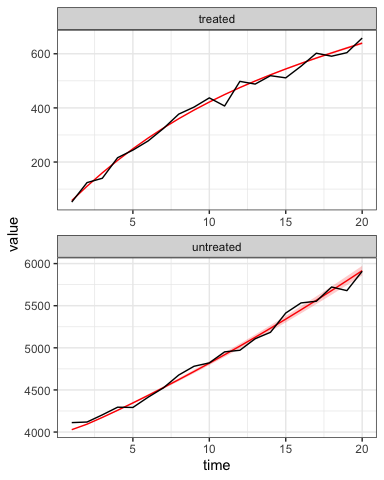
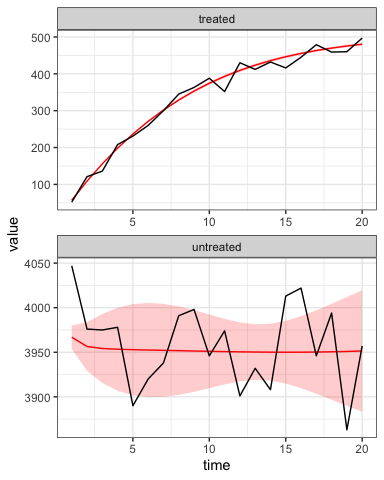
maybe address #351

diff --git a/inst/starter_models/hiv/README.md b/inst/starter_models/hiv/README.md
@@ -112,8 +112,8 @@ solver](https://canmod.github.io/macpan2/reference/state_updates).
 
 ``` r
 outputs = c(sprintf("I%s", 1:4), sprintf("A%s", 1:4))
+spec = mp_tmb_update(spec, default = list(lambda0 = 0.36, alpha = 0.2, n = 0.5))
 sim = (spec
-  |> mp_tmb_update(default = list(lambda0 = 0.36, n = 0.2))
   |> mp_rk4()
   |> mp_simulator(time_steps = 50L, outputs)
 )
@@ -143,8 +143,7 @@ and zero untreated individuals. We add Poisson noise to these variables.
 set.seed(1L)
 spec_for_cal = (spec
   |> mp_tmb_update(
-      default = list(lambda0 = 0.38, n = 0.2)
-    , inits = list(
+      inits = list(
           S = 1e7 - 4000
         , I1 = 1000, I2 = 1000, I3 = 1000, I4 = 1000
         , A1 = 0   , A2 = 0   , A3 = 0   , A4 = 0
@@ -157,6 +156,7 @@ spec_for_cal = (spec
   ))
 )
 simulated_data = (spec_for_cal
+  |> mp_rk4()
   |> mp_simulator(time_steps = 20L, c("treated", "untreated"))
   |> mp_trajectory()
   |> mutate(value = rpois(n(), value))
@@ -175,39 +175,39 @@ simulated_data = (spec_for_cal
 
 We calibrate this model data simulated from it, but start away from the
 true parameter values by specifying that the default `lambda0 = 0.2` and
-`n = 0.5`. We assume a Poisson likelihood to match the Poisson noise
+`alpha = 0.5`. We assume a Poisson likelihood to match the Poisson noise
 that we used to produce the simulated data. For numerical stability, we
-optimize `lambda0` and `n` on the log and logit scales respectively.
+optimize `lambda0` and `alpha` on log scales.
 
 ``` r
 calibrator = (spec_for_cal
-  |> mp_tmb_update(default = list(lambda0 = 0.2, n = 0.5))
+  |> mp_tmb_update(default = list(lambda0 = 0.2, alpha = 0.5))
   |> mp_tmb_calibrator(
         data = simulated_data
       , traj = list(
             treated = mp_pois()
           , untreated = mp_pois()
       )
-      , par = c("log_lambda0", "logit_n")
+      , par = c("log_lambda0", "log_alpha")
   )
 )
 mp_optimize(calibrator)
 #> $par
 #>     params     params 
-#> -0.9526784 -1.8874755 
+#> -0.9303394  1.5411393 
 #> 
 #> $objective
-#> [1] 194.0068
+#> [1] 190.3486
 #> 
 #> $convergence
 #> [1] 0
 #> 
 #> $iterations
-#> [1] 44
+#> [1] 101
 #> 
 #> $evaluations
 #> function gradient 
-#>       51       45 
+#>      119      102 
 #> 
 #> $message
 #> [1] "relative convergence (4)"
@@ -220,18 +220,48 @@ mp_optimizer_output(calibrator)$convergence
 #> [1] 0
 ```
 
-The true parameters, `lambda0 = 0.38` and `n = 0.2`, are in the
-confidence intervals, although the confidence interval for `n` is quite
-wide.
+But the covariance matrix of the parameter estimates indicate that
+`lambda0` and `alpha` are highly correlated, indicating that there is
+little information in the data allowing us to disintangle baseline
+transmission, `lambda0`, from heterogeneity and mixing, `alpha`.
 
 ``` r
-(mp_tmb_coef(calibrator, conf.int = TRUE)
- |> select(-term, -row, -col, -type)
-)
-#>       mat default  estimate  std.error    conf.low conf.high
-#> 1 lambda0     0.2 0.3857066 0.02514815 0.339436497 0.4382839
-#> 2       n     0.5 0.1315326 0.23314560 0.002765574 0.8921398
+covmat = mp_tmb_fixef_cov(calibrator)
+print(covmat)
+#>             log_lambda0 log_alpha
+#> log_lambda0  0.03654861 0.3828976
+#> log_alpha    0.38289764 4.0114311
+cov2cor(covmat)
+#>             log_lambda0 log_alpha
+#> log_lambda0   1.0000000 0.9999944
+#> log_alpha     0.9999944 1.0000000
 ```
+
+Nevertheless, the true parameters, `lambda0 = 0.36` and `alpha = 0.2`,
+are in the confidence intervals, although the confidence interval for
+`alpha` is quite wide.
+
+``` r
+true_coefs = (spec_for_cal 
+  |> mp_default() 
+  |> filter(matrix %in% c("alpha", "lambda0"))
+  |> select(-row, -col)
+  |> rename(mat = matrix, true = value)
+)
+estimated_coefs = (calibrator
+  |> mp_tmb_coef(, conf.int = TRUE)
+  |> select(-term, -row, -col, -type)
+)
+left_join(estimated_coefs, true_coefs)
+#> Joining with `by = join_by(mat)`
+#>       mat default  estimate  std.error   conf.low   conf.high true
+#> 1 lambda0     0.2 0.3944198 0.07540396 0.27116189   0.5737052 0.36
+#> 2   alpha     0.5 4.6699078 9.35315167 0.09214556 236.6694535 0.20
+```
+
+(note that `default` gives the starting values for the optimizer,
+`estimate` the estimated value, and `true` the value used in
+simulation.)
 
 The simulated data (black) that we fit to matches the predictions of the
 fitted model (red) with 95% confidence intervals for the point
